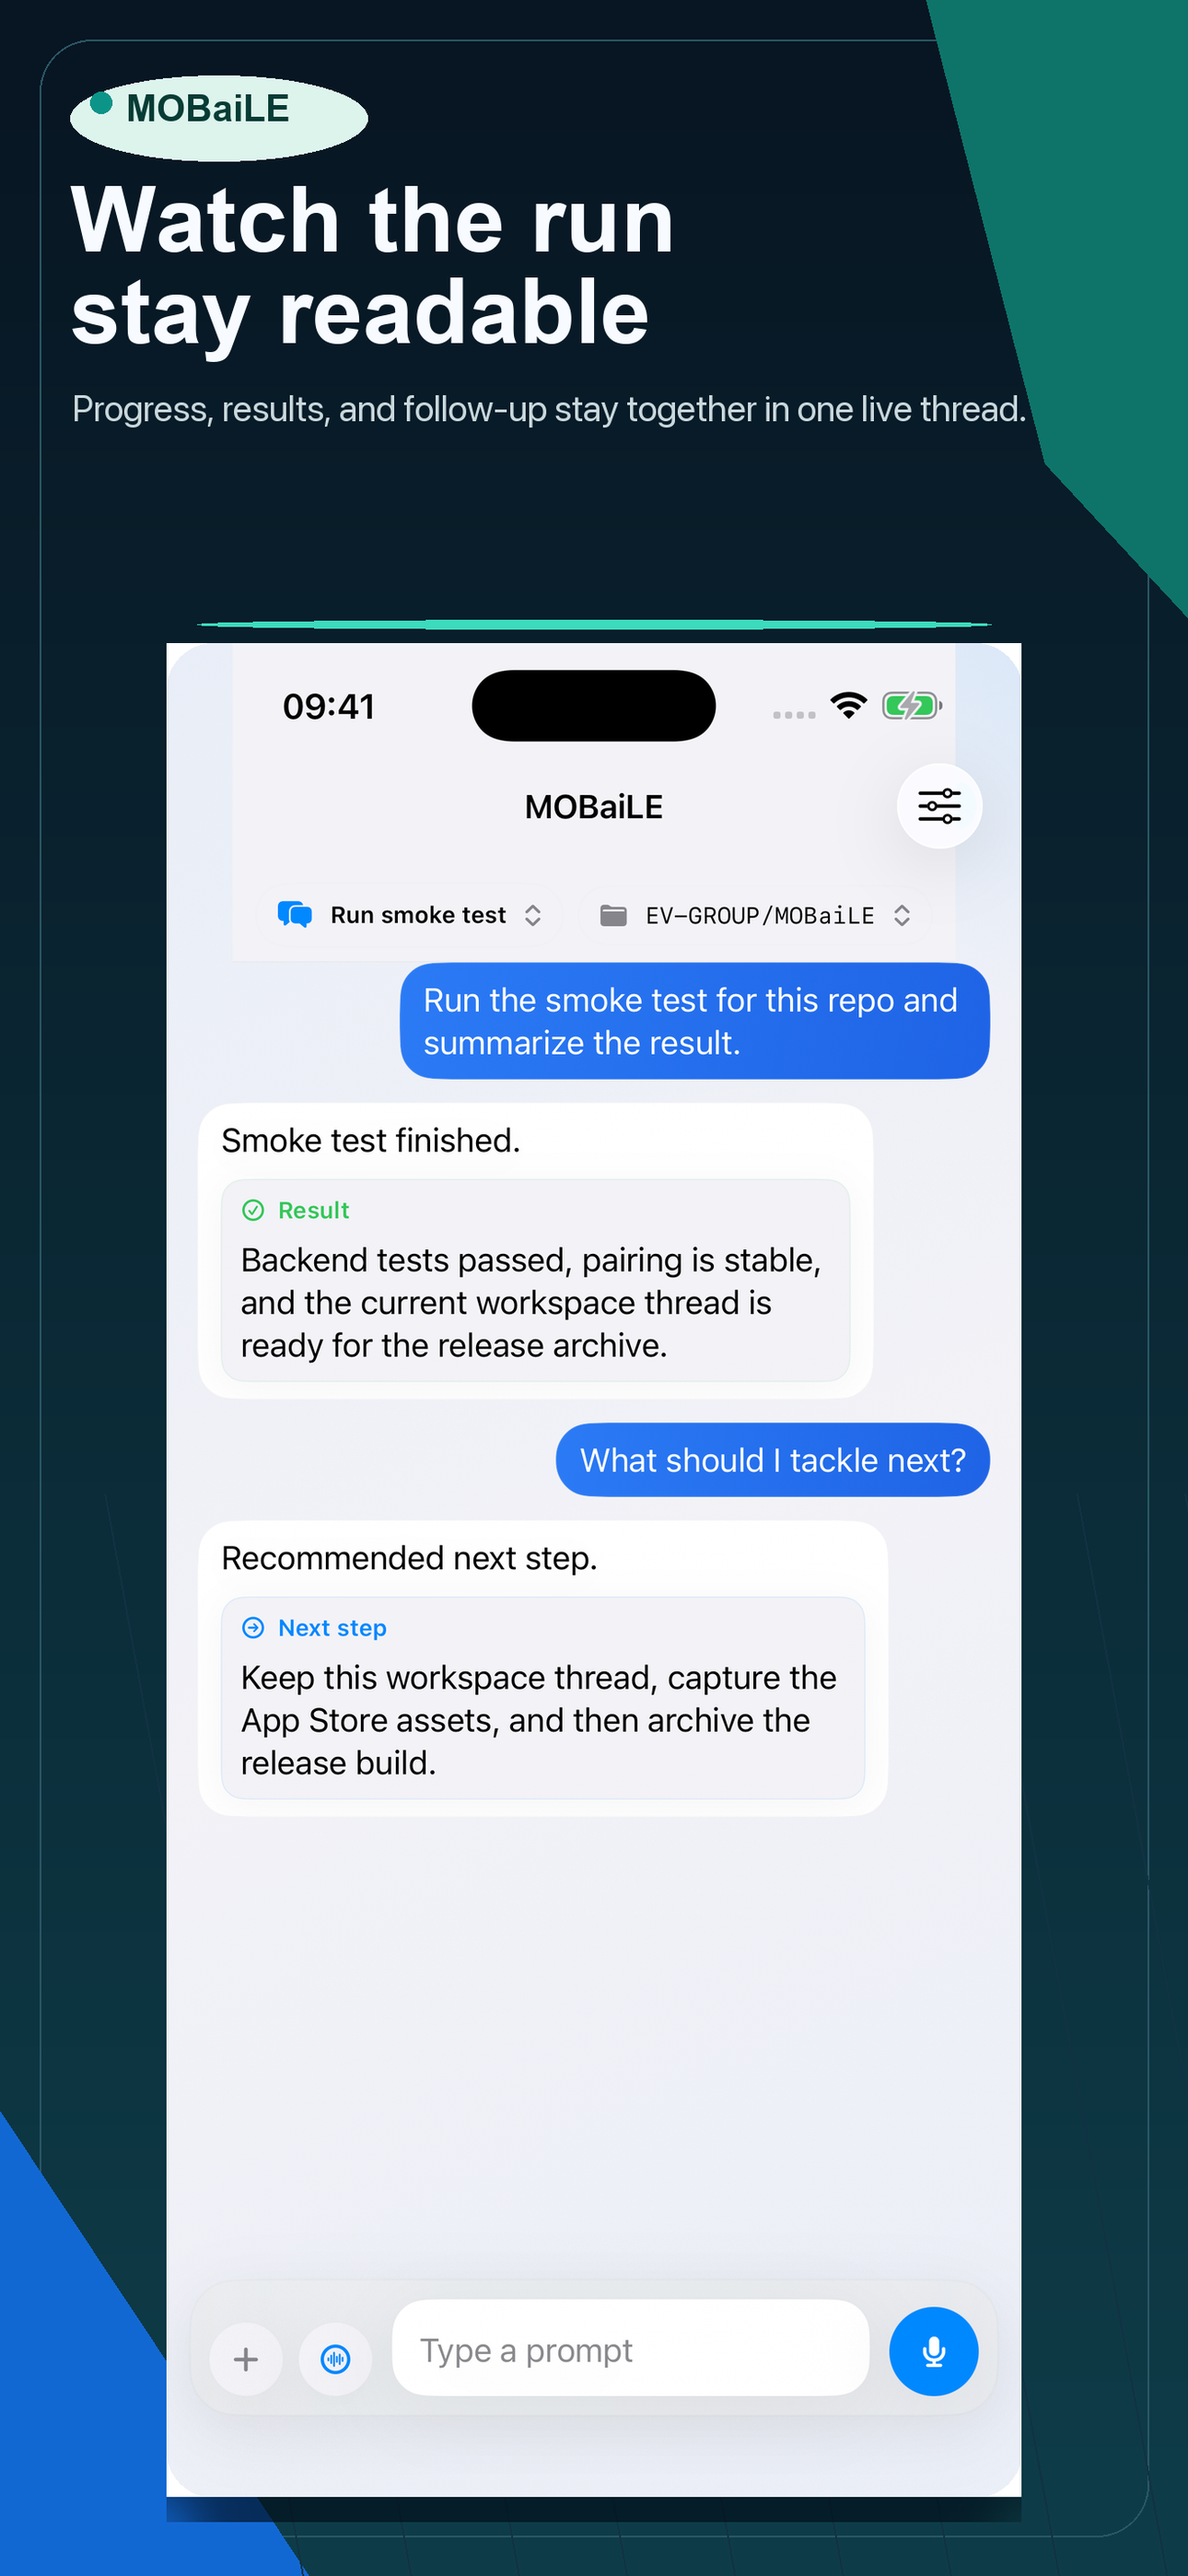
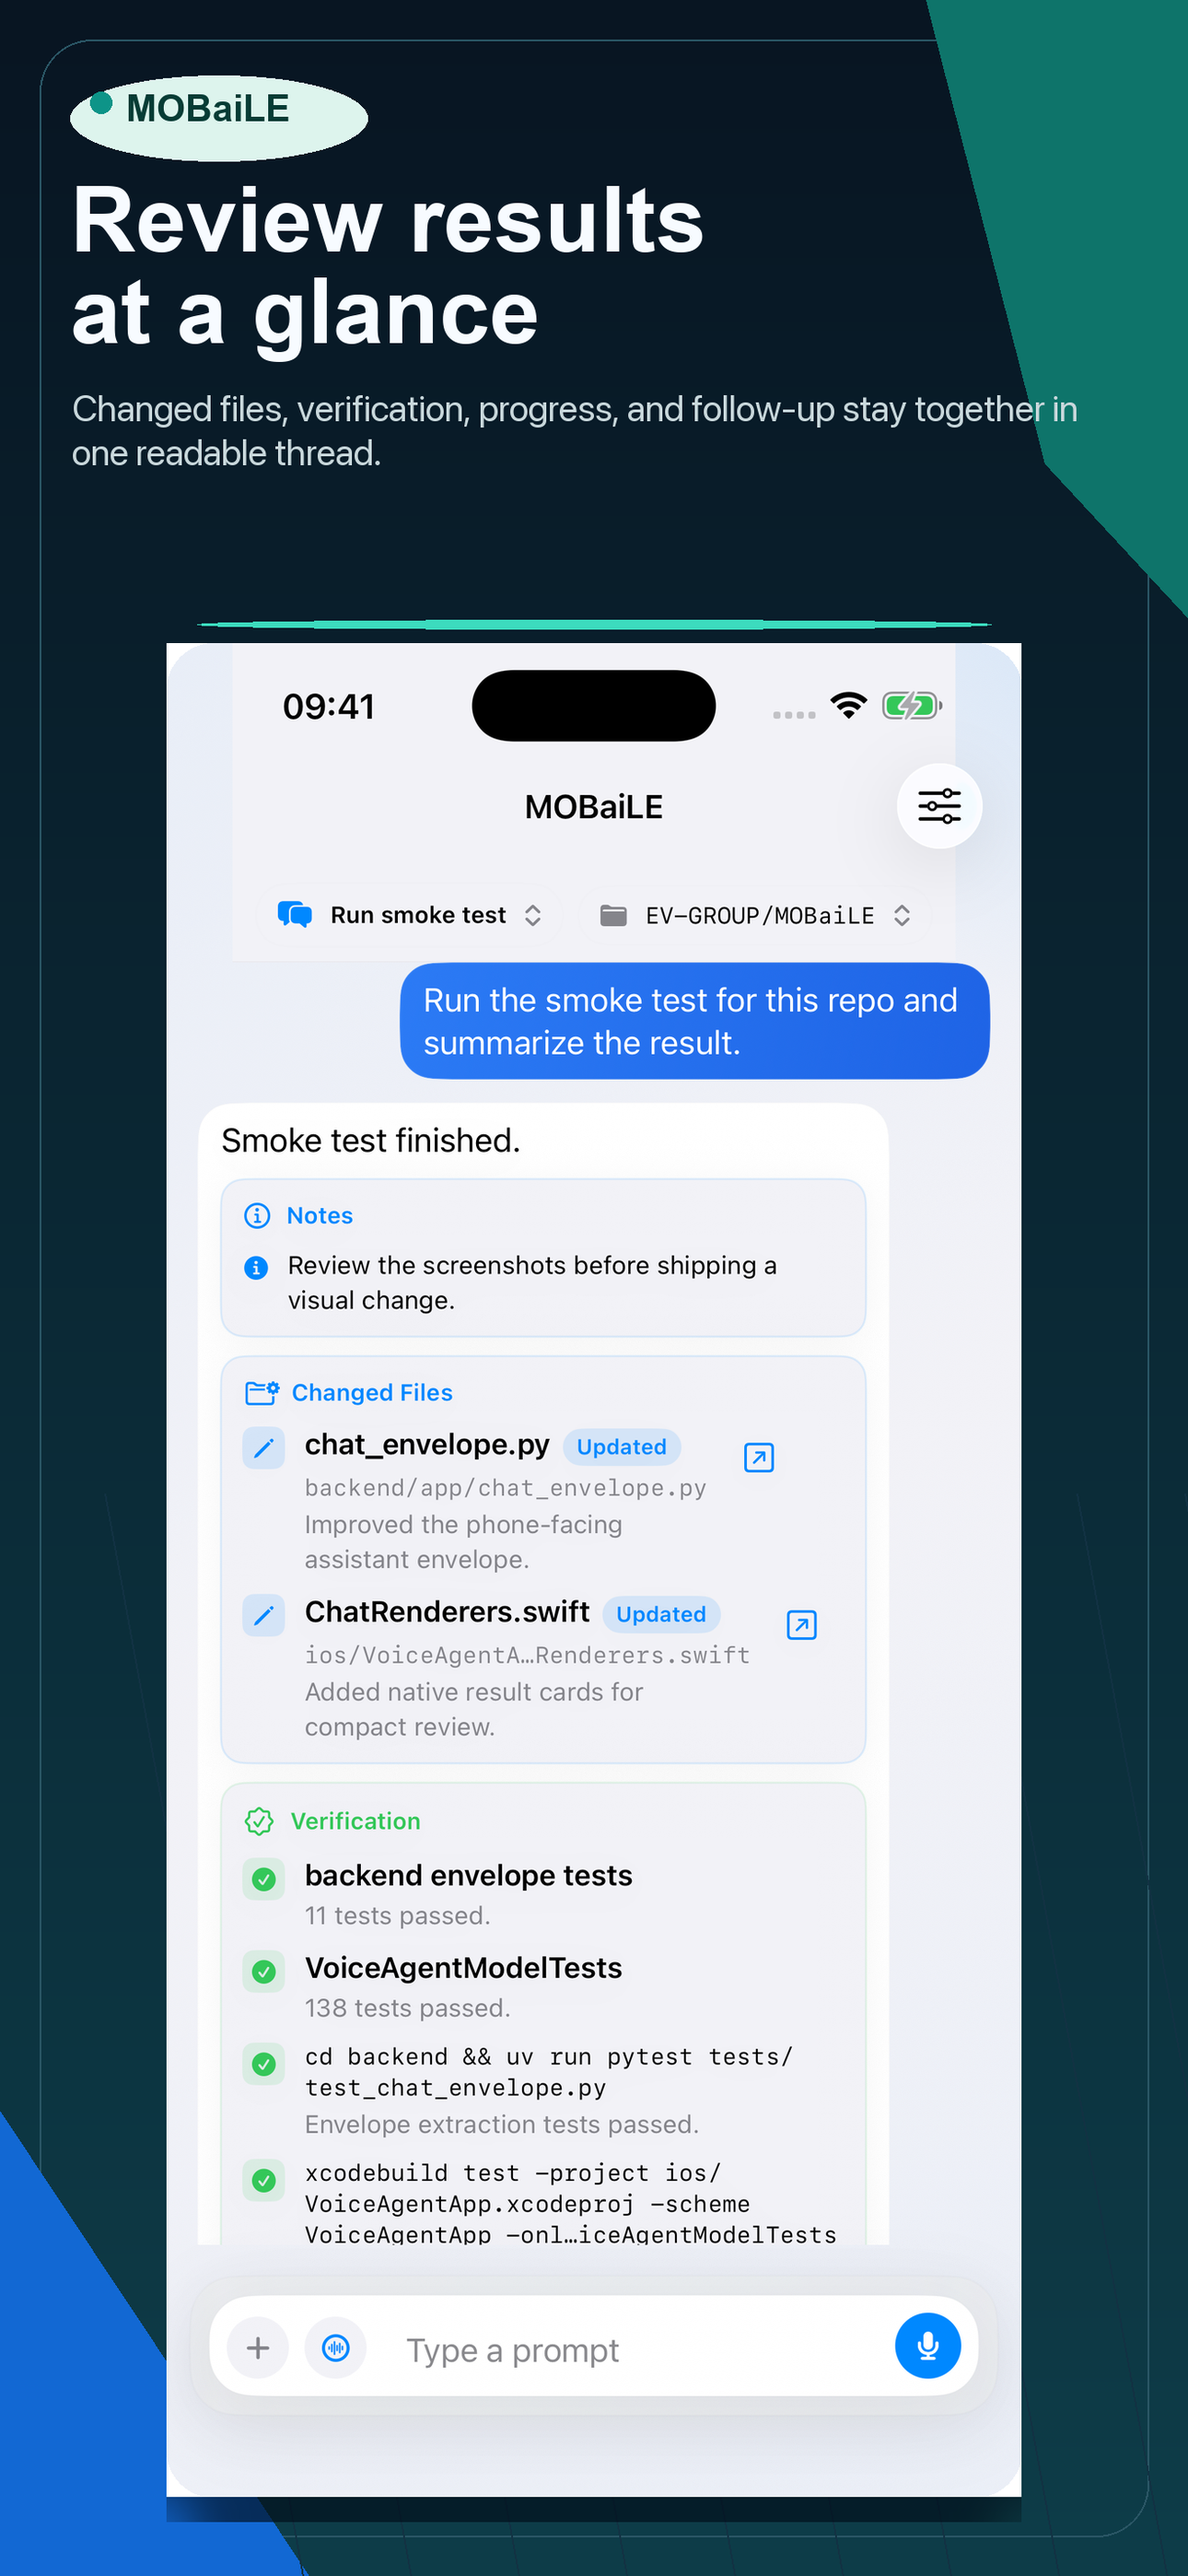
Prepare iOS 1.1.2 App Store release

diff --git a/ios/VoiceAgentApp/WorkspaceBrowserSheet.swift b/ios/VoiceAgentApp/WorkspaceBrowserSheet.swift
@@ -100,11 +100,30 @@ struct WorkspaceBrowserSheet: View {
                 Text("Browsing")
                     .font(.caption.weight(.semibold))
                     .foregroundStyle(.secondary)
-                Text(browsedDirectoryLabel)
-                    .font(.footnote.monospaced())
-                    .foregroundStyle(.primary)
-                    .lineLimit(2)
-                    .truncationMode(.middle)
+                HStack(alignment: .top, spacing: 10) {
+                    Image(systemName: "folder.fill")
+                        .font(.callout.weight(.semibold))
+                        .foregroundStyle(Color.accentColor)
+                        .frame(width: 28, height: 28)
+                        .background(Color.accentColor.opacity(0.10))
+                        .clipShape(RoundedRectangle(cornerRadius: 8, style: .continuous))
+
+                    VStack(alignment: .leading, spacing: 2) {
+                        Text(browsedDirectoryTitle)
+                            .font(.subheadline.weight(.semibold))
+                            .lineLimit(1)
+                            .truncationMode(.middle)
+
+                        if let context = browsedDirectoryContext {
+                            Text(context)
+                                .font(.caption2.monospaced())
+                                .foregroundStyle(.secondary)
+                                .lineLimit(2)
+                                .truncationMode(.middle)
+                                .fixedSize(horizontal: false, vertical: true)
+                        }
+                    }
+                }
 
                 if canUseBrowsedDirectory {
                     Button {
@@ -440,6 +459,14 @@ struct WorkspaceBrowserSheet: View {
         return browsed.isEmpty ? runtimeDirectoryLabel : browsed
     }
 
+    private var browsedDirectoryTitle: String {
+        shortPathLabel(browsedDirectoryLabel)
+    }
+
+    private var browsedDirectoryContext: String? {
+        parentPathLabel(for: browsedDirectoryLabel)
+    }
+
     private var selectedWorkspacePath: String {
         let selected = runtimeDirectoryLabel.trimmingCharacters(in: .whitespacesAndNewlines)
         return selected.isEmpty ? "~" : selected
@@ -483,6 +510,15 @@ struct WorkspaceBrowserSheet: View {
         let last = url.lastPathComponent
         guard !last.isEmpty else { return trimmed }
         return last
+    }
+
+    private func parentPathLabel(for path: String) -> String? {
+        let trimmed = path.trimmingCharacters(in: .whitespacesAndNewlines)
+        guard !trimmed.isEmpty, trimmed != "/" else { return nil }
+
+        let parent = URL(fileURLWithPath: trimmed).deletingLastPathComponent().path
+        guard !parent.isEmpty, parent != trimmed, parent != "." else { return nil }
+        return parent
     }
 
     @ViewBuilder

diff --git a/ios/VoiceAgentApp/ConversationComposerBar.swift b/ios/VoiceAgentApp/ConversationComposerBar.swift
@@ -617,7 +617,7 @@ struct ConversationComposerBar: View {
 
     private var composerPlaceholder: String {
         if vm.needsConnectionRepair {
-            return "Scan pairing QR again to reconnect"
+            return "Reconnect to send"
         }
         if !vm.hasConfiguredConnection {
             return "Connect backend"

diff --git a/scripts/render_app_store_screenshots.py b/scripts/render_app_store_screenshots.py
@@ -12,8 +12,8 @@ COPY = {
         "body": "Pair your Mac or Linux machine once, then start the next repo or terminal task from the phone.",
     },
     "02-live-conversation": {
-        "headline": "Watch the run\nstay readable",
-        "body": "Progress, results, and follow-up stay together in one live thread.",
+        "headline": "Review results\nat a glance",
+        "body": "Changed files, verification, progress, and follow-up stay together in one readable thread.",
     },
     "03-voice-recording": {
         "headline": "Use voice when\ntyping is awkward",

diff --git a/fastlane/SCREENSHOT_CAPTIONS.md b/fastlane/SCREENSHOT_CAPTIONS.md
@@ -5,7 +5,7 @@ Use the generated screenshots in this order for the iPhone App Store slots:
 1. `01-configured-empty-*.png`
    Caption: `Run your own computer from iPhone.`
 2. `02-live-conversation-*.png`
-   Caption: `Watch the run stay readable.`
+   Caption: `Review results at a glance.`
 3. `03-voice-recording-*.png`
    Caption: `Use voice when typing is awkward.`
 4. `04-settings-*.png`
